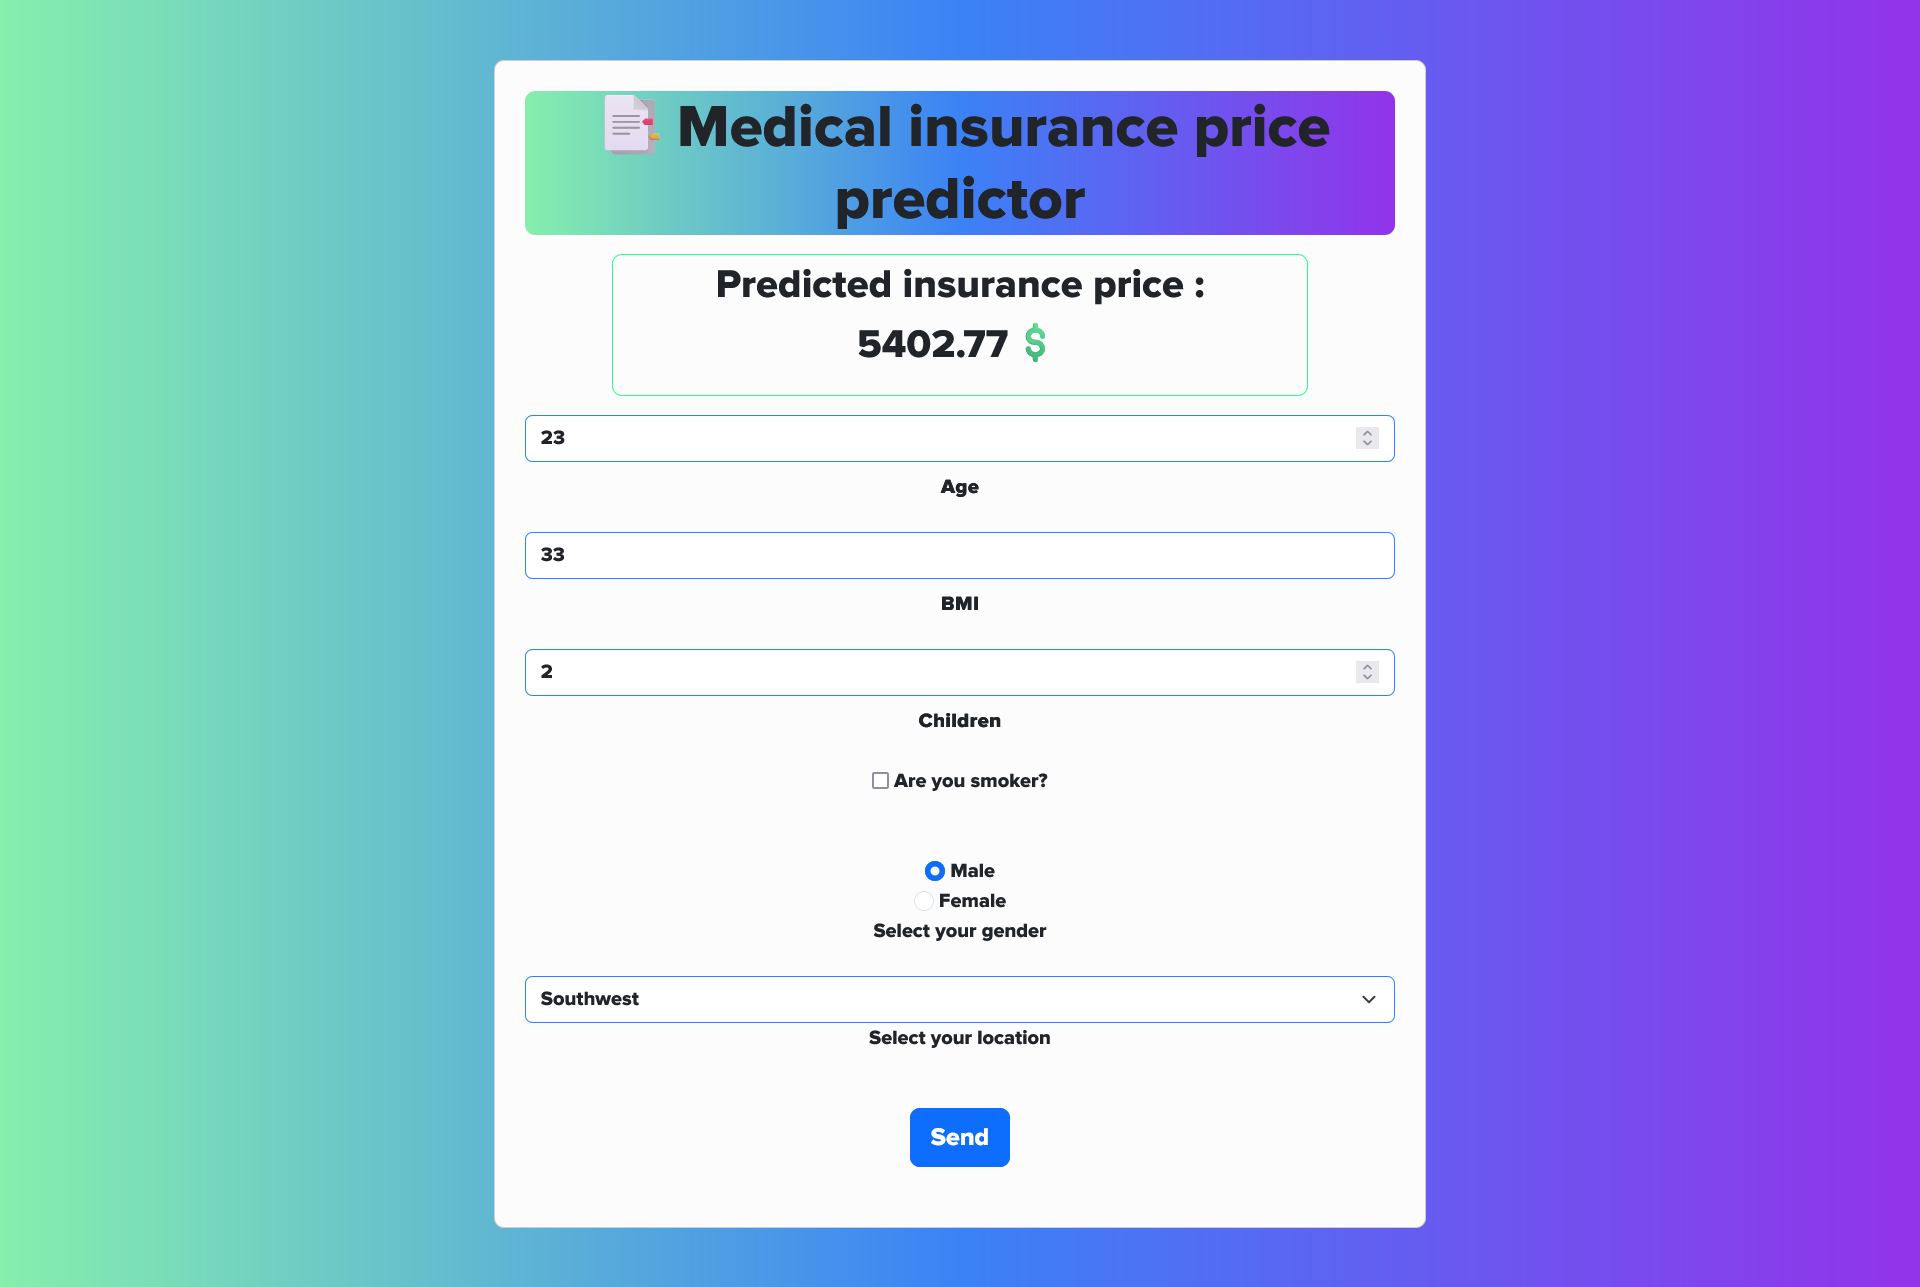
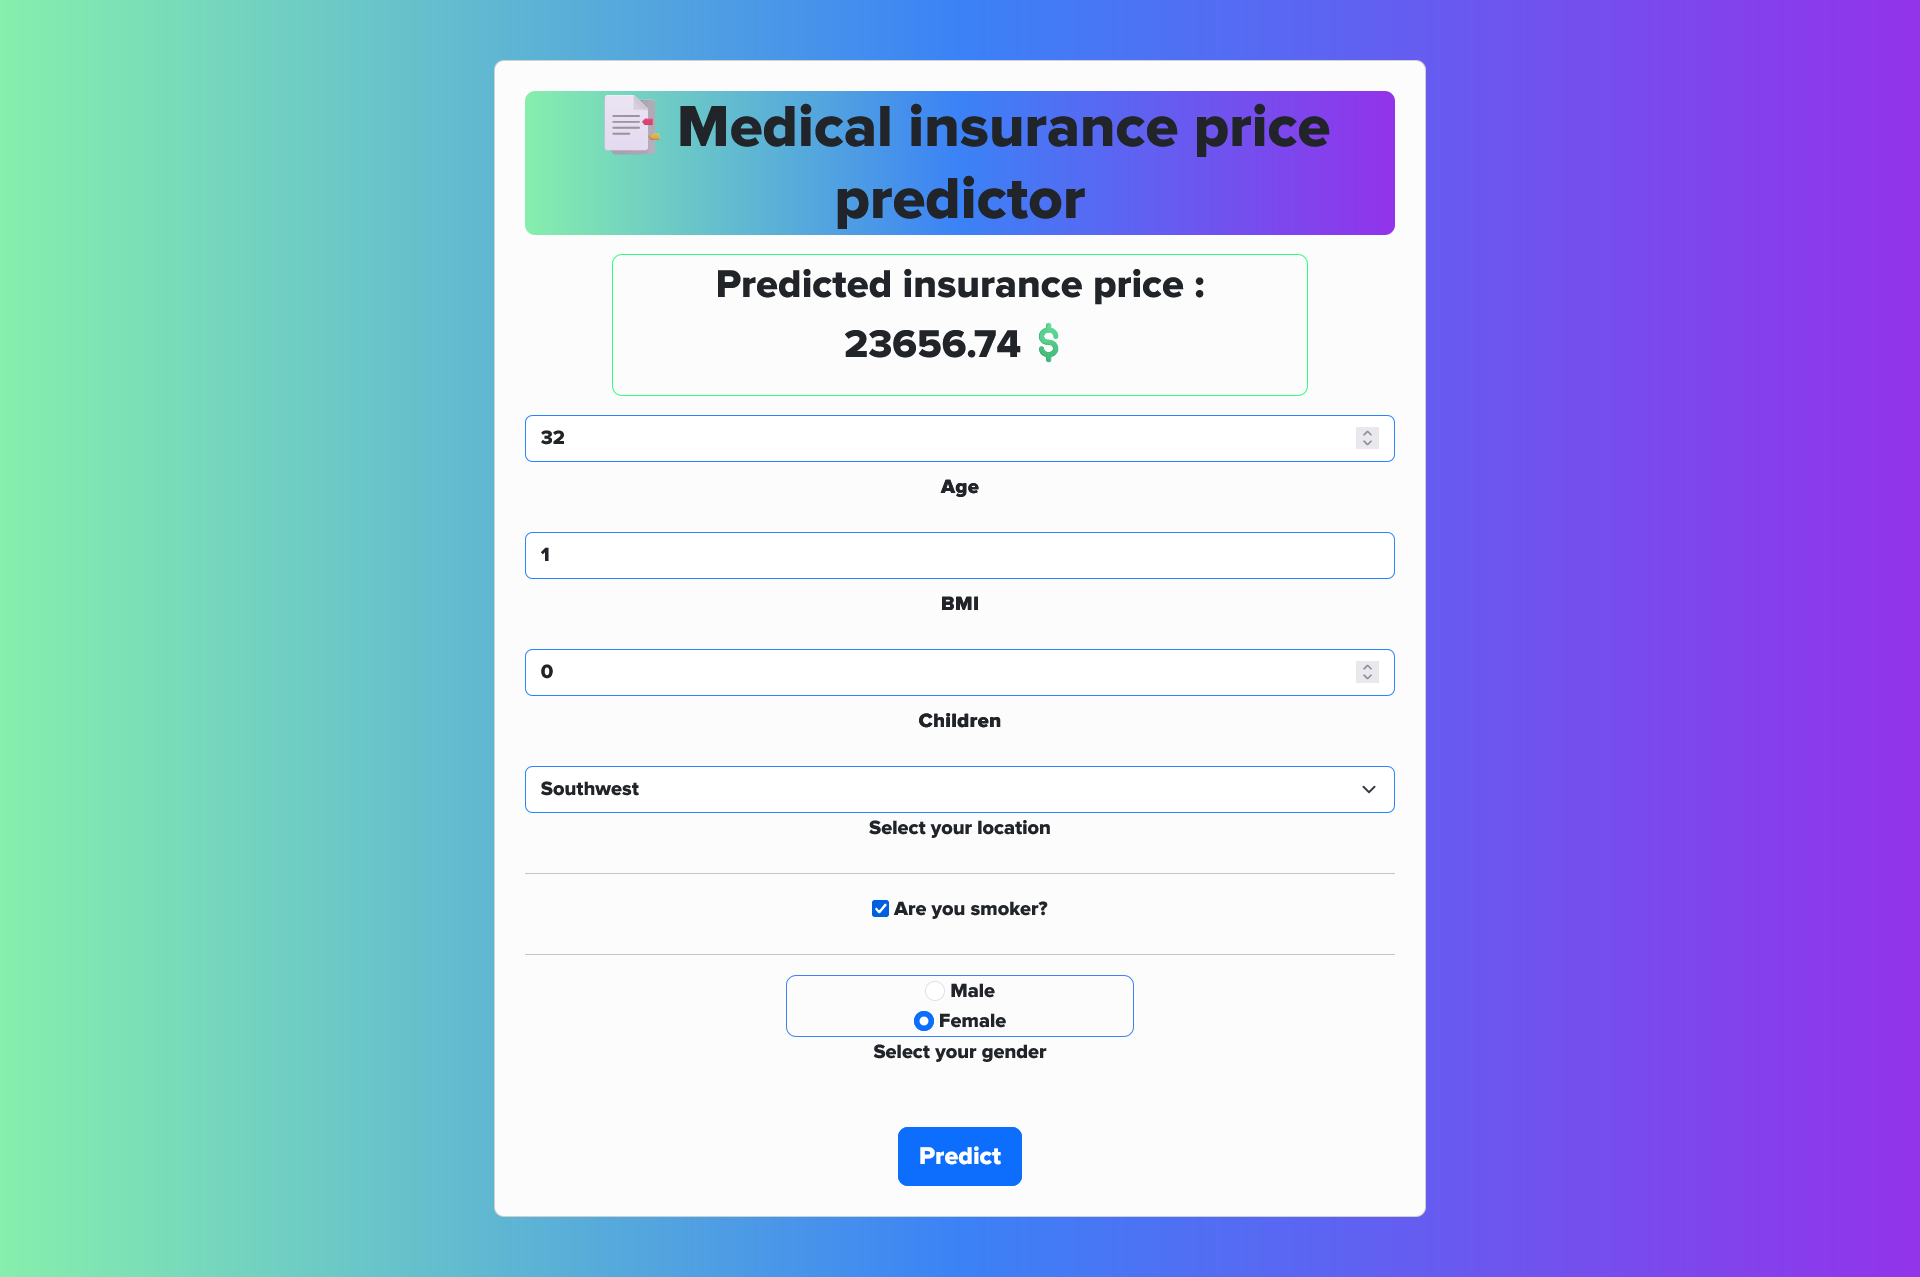
SP-6 : Fix bugs,changes in the interface

diff --git a/app/templates/index.html b/app/templates/index.html
@@ -42,34 +42,38 @@
             {{ render_field(form.children) }}
           </div>
           <div class="form-outline mb-4">
+            {{form.location( class="form-select")}}
+            {{form.location.label}}
+          </div>
+          <hr>
+          <div class="form-outline mb-4">
             {{ form.smoking }}
             {{form.smoking.label}}
           </div>
+          <hr>
           <div class="form-outline mb-4">
-            <br>
-            {% for choice in form.gender %}
-                {{ choice(class="form-check-input") }}
-                {{ choice.label(class="form-check-label") }}<br>
-            {% endfor %}
+                <div style="border: 1px solid rgb(59, 130, 246);width: 40%;border-radius: 8px;">
+                  {% for choice in form.gender %}
+                  {{ choice(class="form-check-input") }}
+                  {{ choice.label(class="form-check-label") }}<br>
+                  {% endfor %}
+                </div>
             {{ form.gender.label }}
-            <br>
+
+            </div> 
             {% for error in form.gender.errors %}
             <div style="background-color: rgb(255, 100, 44);color: rgb(63, 63, 63);">
               {{ error }}
             </div>
             {% endfor %}
         </div>
-        
+              <center>
           <div class="form-outline mb-4">
-            {{form.location( class="form-select")}}
-            {{form.location.label}}
-          </div>
-          <div class="form-outline mb-4">
-            {{ form.submit(class="btn btn-primary btn-lg btn-block",style="margin-top:20px") }}
+            {{ form.submit(class="btn btn-primary btn-lg btn-block") }}
           </div>
 
-          </center>
-        </form>
+              </center>
+            </form>
             </div>
           </div>
         </div>

diff --git a/app/form.py b/app/form.py
@@ -1,6 +1,6 @@
 from flask_wtf import FlaskForm
-from wtforms import StringField,SubmitField,TextAreaField,IntegerField,BooleanField,RadioField,SelectField,FloatField
-from wtforms.validators import DataRequired, Email ,ValidationError
+from wtforms import SubmitField,IntegerField,BooleanField,RadioField,SelectField,FloatField
+from wtforms.validators import DataRequired,ValidationError,InputRequired
 
 
 def non_negative(form, field):
@@ -8,10 +8,10 @@ def non_negative(form, field):
         raise ValidationError('This field accepts only non-negative numbers.')
 
 class Form(FlaskForm):
-    age = IntegerField('Age', validators=[DataRequired(message="This field is required.Only integer numbers."),non_negative])
-    bmi = FloatField('BMI', validators=[DataRequired(message="This field is required.Only float numbers."),non_negative])
-    children = IntegerField('Children', validators=[DataRequired(message="This field is required.Only integer numbers."),non_negative])
+    age = IntegerField('Age', validators=[DataRequired(message="Field is empty or value isn`t integer number(must be greater than 0)."),non_negative])
+    bmi = FloatField('BMI', validators=[DataRequired(message="Field is empty or value isn`t float number(must be greater than 0)."),non_negative])
+    children = IntegerField('Children', validators=[InputRequired(message="Field is empty or value isn`t integer number."),non_negative])
     smoking = BooleanField("Are you smoker?")
     gender =  RadioField('Select your gender', choices=[('1','Male'),('0','Female')])
     location = SelectField(u'Select your location', choices=[('northeast', 'Northeast'), ('northwest', 'Northwest'), ('southeast', 'Southeast'), ('southwest', 'Southwest')])
-    submit = SubmitField('Send')
+    submit = SubmitField('Predict')
